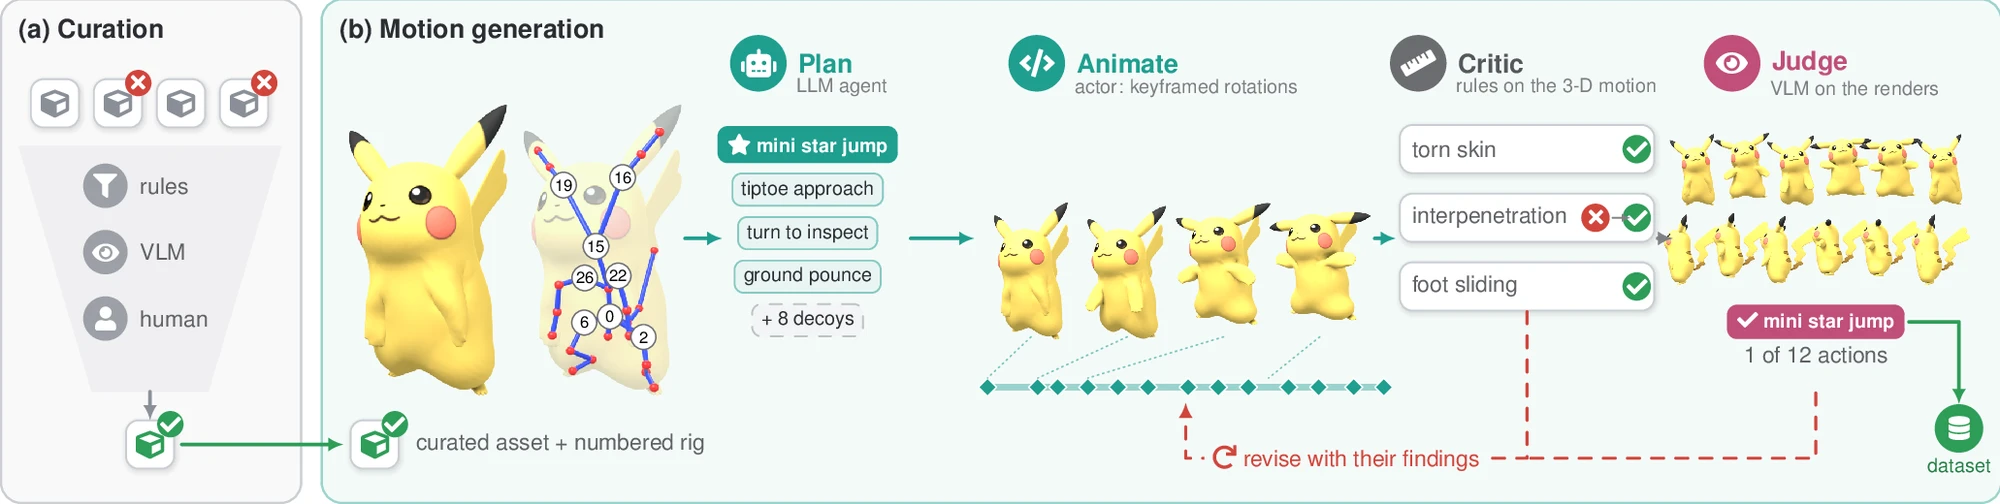
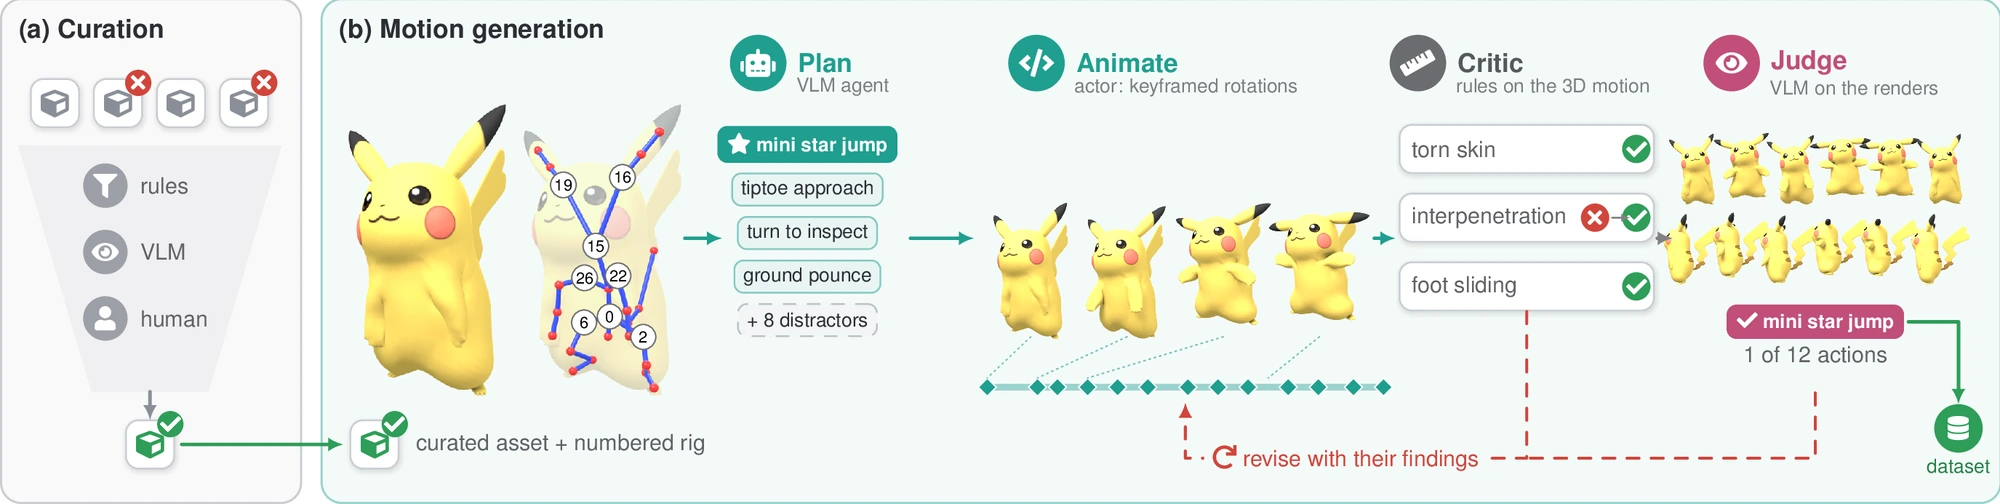
Follow paper ec06fb3 (Angel's OK): the read-out described as deterministic and closed-form (card, Fig. 3 caption and alt text), Fig. 4's distractors and VLM agent (caption, alt text, re-rasterised figure), the method cards titled as Sec. 3.3-3.5 (sparse-structure flow, structured-latent flow, closed

diff --git a/index.html b/index.html
@@ -482,17 +482,17 @@ footer p + p { margin-top: .4rem; }
       <figcaption class="cap">The input asset and its rig enter as frame 0. <b>Stage 1</b> generates where each frame's surface and skeleton voxels are; <b>stage 2</b> fills them with structured latents, a tag naming the input joint each skeleton voxel belongs to, and a root token for the global motion. The pretrained decoders stay frozen; only attention and a few new layers are trained.</figcaption>
     </figure>
     <div class="steps">
-      <div class="step"><span class="k">Stage 1 · where</span><h3>Posed geometry per frame</h3><p>A flow model generates each frame's occupancy: the surface voxels and the skeleton voxels, in that frame's own normalised cube, attending to neighbouring frames and to the input asset in frame 0.</p></div>
-      <div class="step"><span class="k">Stage 2 · what</span><h3>Skeletons that name their joints</h3><p>A second flow fills the voxels with the pretrained model's shape and skeleton latents plus a joint identity, so every skeleton voxel says which joint of the input rig it belongs to. A root token carries the global motion.</p></div>
-      <div class="step"><span class="k">Read-out · how</span><h3>Joint transforms on the asset's own tree</h3><p>A deterministic fit turns the generated skeletons into rotations of the input rig's joints. Linear blend skinning then poses the input mesh: rigid parts stay rigid and bones keep their length by construction.</p></div>
+      <div class="step"><span class="k">Stage 1 · sparse-structure flow</span><h3>Posed geometry per frame</h3><p>A flow model generates each frame's occupancy: the surface voxels and the skeleton voxels, in that frame's own normalised cube, attending to neighbouring frames and to the input asset in frame 0.</p></div>
+      <div class="step"><span class="k">Stage 2 · structured-latent flow</span><h3>Skeletons that name their joints</h3><p>A second flow fills the voxels with the pretrained model's shape and skeleton latents plus a joint identity, so every skeleton voxel says which joint of the input rig it belongs to. A root token carries the global motion.</p></div>
+      <div class="step"><span class="k">Read-out · closed form</span><h3>Joint transforms on the asset's own tree</h3><p>A deterministic read-out, with no optimisation, turns the generated skeletons into rotations of the input rig's joints, each in closed form. Linear blend skinning then poses the input mesh: rigid parts stay rigid and bones keep their length by construction.</p></div>
     </div>
     <details class="more">
       <summary>More detail: the tokens of a frame and the read-out</summary>
       <div class="inner">
         <figure><div class="fig-plate"><img src="media/fig/fig_tokens.webp" width="984" height="574" alt="Stage 2 tokens of one frame: shape tokens on surface voxels and skeleton tokens on skeleton voxels, each carrying latents and a joint tag." loading="lazy"></div>
           <figcaption class="cap"><b>Stage 2 tokens.</b> Surface voxels carry shape and skin latents; skeleton voxels carry skeleton latents and a joint tag.</figcaption></figure>
-        <figure><div class="fig-plate"><img src="media/fig/fig_readout.webp" width="2000" height="351" alt="The read-out: skeleton voxels vote for joint positions, are grouped by joint, and a fit recovers joint rotations on the input rig." loading="lazy"></div>
-          <figcaption class="cap"><b>Read-out.</b> Skeleton voxels vote for joint positions; votes are assigned to the input rig's joints by their tags and by tracking, and a regularised fit recovers each joint's transformation.</figcaption></figure>
+        <figure><div class="fig-plate"><img src="media/fig/fig_readout.webp" width="2000" height="351" alt="The read-out: skeleton voxels vote for joint positions, are grouped by joint, and joint rotations on the input rig follow in closed form." loading="lazy"></div>
+          <figcaption class="cap"><b>Read-out.</b> Skeleton voxels vote for joint positions; votes are assigned to the input rig's joints by their tags and by tracking, and each joint's rotation follows in closed form.</figcaption></figure>
       </div>
     </details>
   </div>
@@ -522,8 +522,8 @@ footer p + p { margin-top: .4rem; }
   <div class="wrap">
     <div class="shead"><span class="eyebrow">Agentic data generation</span><h2>Curated assets, and motion generated by agents</h2>
       <p>Rigged, animated 3D assets are scarce and dominated by walk, run and idle cycles. We curate existing animated assets with rule-based audits, a vision–language model and human review, then generate new motion on their own rigs in an actor–critic loop: a language model plans and keyframes actions, a geometric critic and a vision–language judge accept or return each clip.</p></div>
-    <figure><div class="fig-plate"><img src="media/fig/fig_agent.webp" width="2000" height="504" alt="Agentic data generation: curation of collected assets, then an actor–critic loop that plans actions with decoys, keyframes joint rotations, and checks each clip geometrically and with a vision–language judge." loading="lazy"></div>
-      <figcaption class="cap"><b>Agentic data generation.</b> (a) Rules, a vision–language model and a human reviewer curate collected assets. (b) An actor plans actions with decoys and keyframes joint rotations; a critic measures the clip in 3D and a judge must recognise the action among the decoys from rendered views. Failed clips are revised.</figcaption></figure>
+    <figure><div class="fig-plate"><img src="media/fig/fig_agent.webp" width="2000" height="504" alt="Agentic data generation: curation of collected assets, then an actor–critic loop that plans actions, keyframes joint rotations, and checks each clip geometrically and with a vision–language judge." loading="lazy"></div>
+      <figcaption class="cap"><b>Agentic data generation.</b> (a) Rules, a vision–language model and a human reviewer curate collected assets. (b) An actor plans actions and keyframes joint rotations; a critic measures the clip in 3D and a judge must pick the planned action out of 12 labels (four planned actions and eight distractors) from rendered views. Failed clips are revised.</figcaption></figure>
     <div class="facts">
       <div class="fact"><b class="num">15,357</b><span>rigged animation clips, each rendered from 16 cameras</span></div>
       <div class="fact"><b class="num">4,436</b><span>clips with generated motion, on 1,842 assets</span></div>
@@ -555,7 +555,7 @@ footer p + p { margin-top: .4rem; }
 <footer>
   <div class="wrap">
     <p>Result videos play at 12 frames per second, about 0.4× real time, and hold their last frame briefly before looping; generated-motion clips play at their own 30 frames per second. All outputs are rendered with the input asset's colours (in the wild, the generated asset's own colours); the input frames are the rendered or in-the-wild videos each method was given.</p>
-    <p>Rendered with Blender. Every Ani4D output on this page comes from the reference checkpoints: stage 1 after 19K steps, trained with the agentic clips on 16 cameras, and stage 2 after 33K.</p>
+    <p>Rendered with Blender. Every Ani4D output on this page comes from our final model, as in the paper.</p>
   </div>
 </footer>
 
